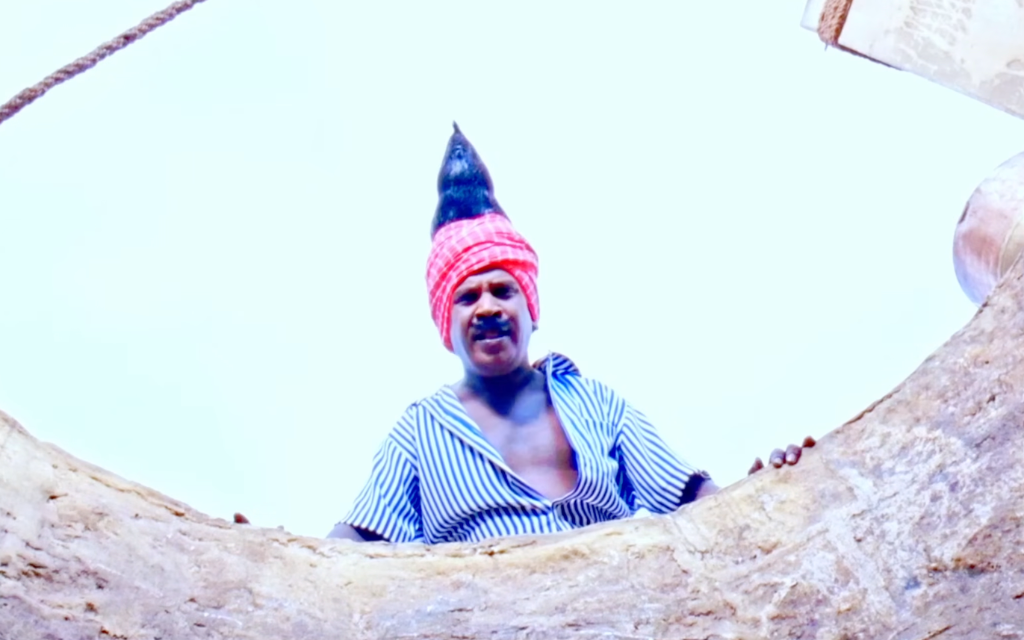
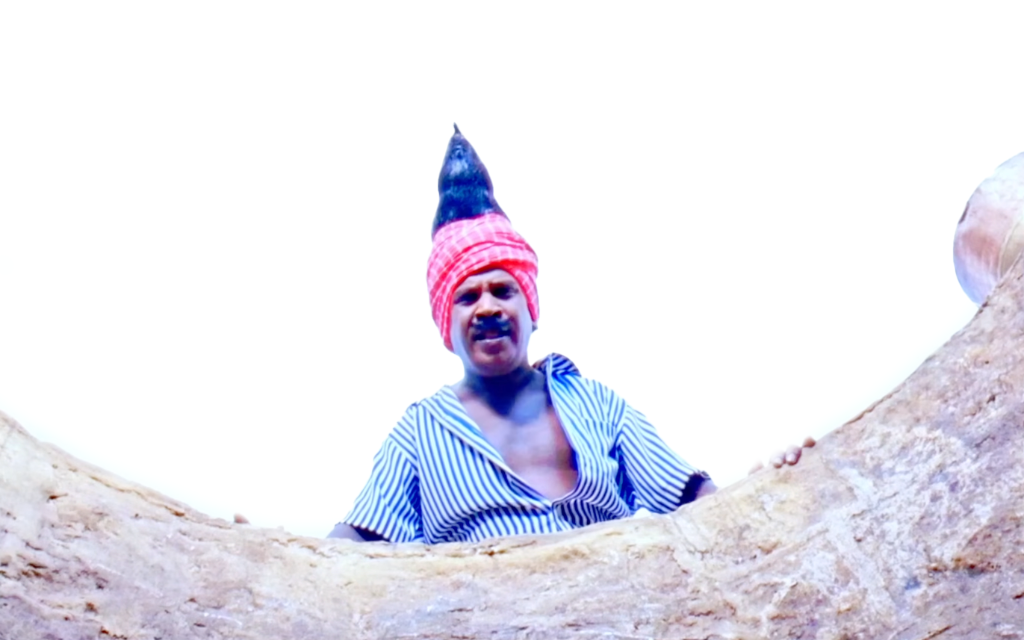
feat: redesign 404 page with responsive layout, light/dark mode support, and updated meme display

diff --git a/app/not-found.tsx b/app/not-found.tsx
@@ -1,6 +1,6 @@
 import type { Metadata } from "next";
-import Link from "next/link";
 import Image from "next/image";
+import Link from "next/link";
 
 export const metadata: Metadata = {
   title: "404 — Onnume Theriyalaye | Mavtop Technologies",
@@ -9,67 +9,46 @@ export const metadata: Metadata = {
 
 export default function NotFound() {
   return (
-    <main className="min-h-screen bg-[#0D0D0F] flex flex-col items-center justify-center px-4 relative overflow-hidden">
-
-      {/* Background glow */}
-      <div className="absolute inset-0 pointer-events-none">
-        <div className="absolute top-1/2 left-1/2 -translate-x-1/2 -translate-y-1/2 w-[600px] h-[600px] rounded-full bg-brand-blue/5 blur-3xl" />
-      </div>
-
-      <div className="relative z-10 flex flex-col items-center text-center max-w-lg mx-auto">
-
-        {/* 404 number */}
-        <p className="font-grotesk font-extrabold text-[120px] leading-none text-transparent bg-clip-text bg-gradient-to-b from-white/20 to-white/5 select-none mb-2">
+    <main className="relative w-full h-screen min-h-screen bg-[#FAFAFA] dark:bg-[#0D0D0F] flex flex-col items-center justify-between px-4 py-8 overflow-hidden select-none transition-colors duration-300">
+      {/* Massive 404 watermark positioned for mobile and desktop */}
+      <div className="absolute inset-0 flex items-start sm:items-center justify-center pt-20 sm:pt-0 pointer-events-none z-0">
+        <span className="font-grotesk font-black text-[50vw] sm:text-[35vw] md:text-[40vw] leading-none text-slate-900/35 dark:text-white/20 select-none tracking-tighter transition-colors duration-300">
           404
-        </p>
-
-        {/* Meme image */}
-        <div className="relative w-72 h-52 rounded-2xl overflow-hidden shadow-2xl border border-white/10 mb-6">
-          <Image
-            src="/404-meme.png"
-            alt="Onnume Theriyalaye"
-            fill
-            className="object-cover"
-            unoptimized
-          />
-          {/* Meme subtitle overlay */}
-          <div className="absolute bottom-0 left-0 right-0 bg-gradient-to-t from-black/80 to-transparent px-4 py-3">
-            <p
-              className="text-white font-bold text-lg leading-tight"
-              style={{ textShadow: "0 1px 4px #000", fontFamily: "Arial, sans-serif" }}
-            >
-              &ldquo;ஒண்ணுமே தெரியலையே!&rdquo;
-            </p>
-            <p className="text-white/70 text-xs mt-0.5">— Page not found, da! 😂</p>
-          </div>
-        </div>
-
-        {/* Heading */}
-        <h1 className="font-grotesk font-bold text-2xl md:text-3xl text-white mb-2">
-          Aiyo! Page Kadaikala 🫙
-        </h1>
-        <p className="font-jakarta text-slate-400 text-base mb-8 leading-relaxed">
-          The page you&apos;re looking for went missing like our friend up there —&nbsp;
-          <span className="text-white/60 italic">onnume theriyalaye!</span>
-        </p>
-
-        {/* CTA buttons */}
-        <div className="flex flex-col sm:flex-row gap-3 w-full justify-center">
-          <Link
-            href="/"
-            className="inline-flex items-center justify-center gap-2 px-6 py-3 rounded-xl bg-brand-blue text-white font-grotesk font-semibold text-sm hover:bg-blue-600 transition-all duration-200 shadow-lg shadow-blue-500/20"
-          >
-            ← Home Page ku Po
-          </Link>
-          <Link
-            href="/book"
-            className="inline-flex items-center justify-center gap-2 px-6 py-3 rounded-xl bg-white/5 border border-white/10 text-white font-grotesk font-semibold text-sm hover:bg-white/10 transition-all duration-200"
-          >
-            📞 Contact Panna
-          </Link>
-        </div>
-
+        </span>
       </div>
+
+      {/* Background meme image layer */}
+      <div className="absolute inset-0 z-10 pointer-events-none flex items-center justify-center">
+        <Image
+          src="/404-meme.png"
+          alt="Onnume Theriyalaye"
+          fill
+          className="object-cover object-center opacity-85 dark:opacity-75 filter brightness-100 dark:brightness-90 transition-all duration-300"
+          priority
+          unoptimized
+        />
+        {/* Soft gradient vignetting adapted for light & dark themes */}
+        <div className="absolute inset-0 bg-gradient-to-t from-[#FAFAFA] via-[#FAFAFA]/20 to-[#FAFAFA]/70 dark:from-[#0D0D0F] dark:via-[#0D0D0F]/20 dark:to-[#0D0D0F]/70 transition-colors duration-300" />
+      </div>
+
+      {/* Foreground Content (Onnume Theriyalaye text in front) */}
+      <Link href="/" className="relative z-20 flex flex-col items-center text-center px-2 max-w-4xl cursor-pointer group mt-auto mb-6 sm:mb-20">
+        <div className="space-y-2 sm:space-y-3">
+          <h1
+            className="text-slate-900 dark:text-white font-extrabold text-[7.5vw] sm:text-6xl md:text-7xl lg:text-8xl tracking-wide whitespace-nowrap drop-shadow-[0_2px_12px_rgba(255,255,255,0.9)] dark:drop-shadow-[0_4px_20px_rgba(0,0,0,0.95)] transition-colors duration-300"
+            style={{ fontFamily: "var(--font-space-grotesk), sans-serif" }}
+          >
+            ஒண்ணுமே தெரியலையே!
+          </h1>
+          <p className="text-slate-800 dark:text-slate-200 font-bold text-[3.8vw] sm:text-2xl md:text-4xl tracking-[0.2em] sm:tracking-[0.25em] uppercase opacity-95 drop-shadow-[0_1px_8px_rgba(255,255,255,0.8)] dark:drop-shadow-[0_2px_10px_rgba(0,0,0,0.9)] transition-colors duration-300">
+            ONNUME THERIYALAYE
+          </p>
+        </div>
+      </Link>
     </main>
   );
 }
+
+
+
+
